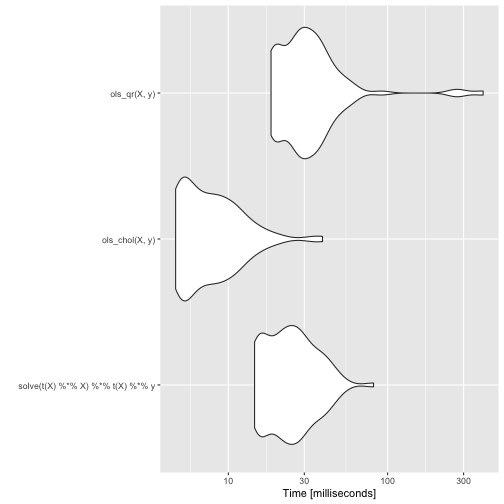
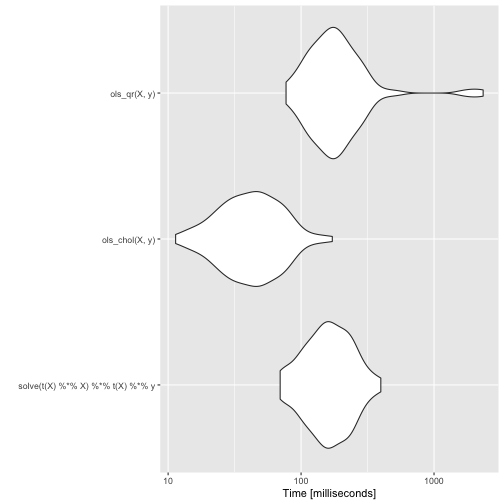
update

diff --git a/docs/lezioni/L04/LibroVsComputer.html b/docs/lezioni/L04/LibroVsComputer.html
@@ -33,7 +33,7 @@ class: center, middle, inverse, title-slide
 
 2. **Underflow** Simile all'overflow, i numeri possono diventare troppo piccoli per essere rappresentati dai computer, provocando errori o avvisi o calcoli imprecisi
 
-3. **Dipendenza quasi lineare**  la precisione del computer determina se una matrice ha (computazionalmente) colonne linearmente dipendenti
+3. **Dipendenza quasi lineare** Il computer (che ha una precisone finita) può confondere una dipendenza quasi lineare per una dipendenza lineare
 
 ---
 
@@ -91,11 +91,11 @@ ms
 ```
 Unit: milliseconds
                                  expr       min        lq      mean    median
-     solve(t(X) %*% X) %*% t(X) %*% y 13.884018 16.695464 25.938544 20.474913
- solve(crossprod(X), crossprod(X, y))  4.791025  5.250133  7.518604  5.883758
-       uq       max neval cld
- 29.70170 126.29916   100   b
-  8.21887  41.40562   100  a 
+     solve(t(X) %*% X) %*% t(X) %*% y 21.974572 124.98663 229.96662 195.27460
+ solve(crossprod(X), crossprod(X, y))  6.593146  26.73335  60.15342  51.25928
+        uq      max neval cld
+ 311.75524 674.7178   100   b
+  73.92241 343.1228   100  a 
 ```
 
 ---
